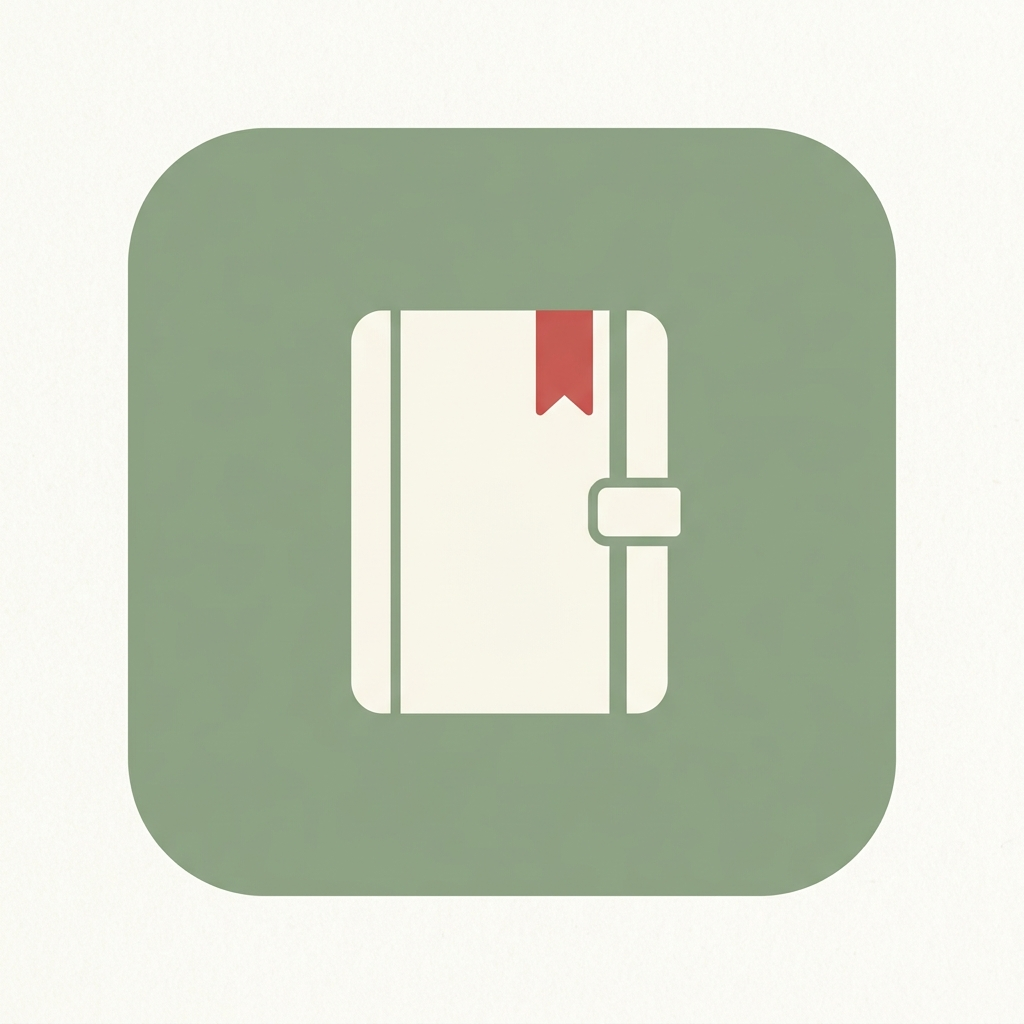
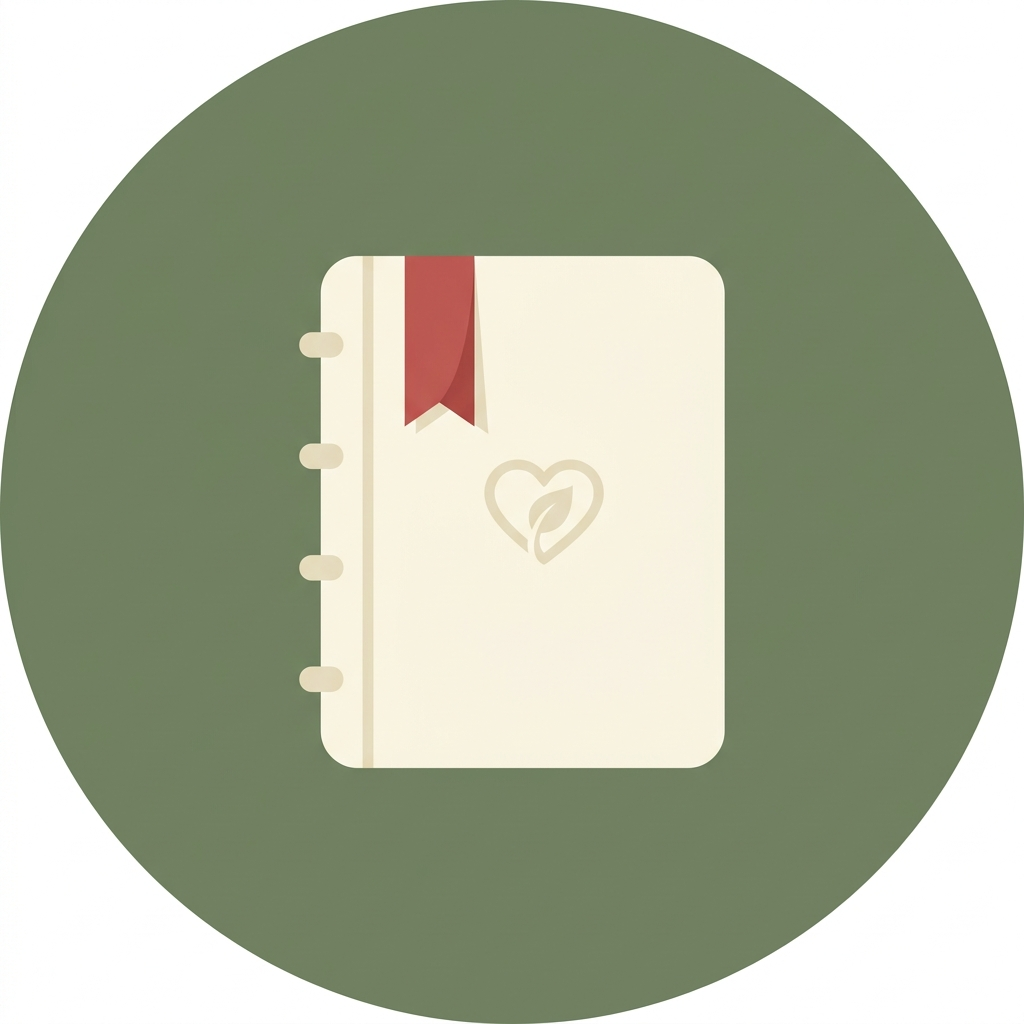
Add files via upload

diff --git a/src/components/EntryForm.tsx b/src/components/EntryForm.tsx
@@ -130,7 +130,7 @@ export default function EntryForm({
               ref={textareaRefs.situation}
               value={situation}
               onChange={(e) => setSituation(e.target.value)}
-              placeholder="Wo warst du? Wer war dabei? Was genau ist passiert?"
+              placeholder="Wo warst du? Wer war dabei? Was genau ist passiert? (z.B. Mein Chef hat mich kurzfristig zu einem Gespräch gerufen...)"
               rows={2}
               className="w-full p-3.5 rounded-xl border border-[#D1CBBB] bg-[#FCFAF5] text-[#3D3D3D] text-sm focus:border-[#728264] focus:ring-2 focus:ring-[#728264]/15 outline-none transition-all resize-none min-h-[70px]"
             />
@@ -146,7 +146,7 @@ export default function EntryForm({
               ref={textareaRefs.gedanken}
               value={gedanken}
               onChange={(e) => setGedanken(e.target.value)}
-              placeholder="Was ging dir durch den Kopf? Welche automatischen Bewertungen oder Zweifel hattest du?"
+              placeholder="Was ging dir durch den Kopf? Welche automatischen Bewertungen oder Zweifel hattest du? (z.B. Ich habe bestimmt etwas falsch gemacht...)"
               rows={2}
               className="w-full p-3.5 rounded-xl border border-[#D1CBBB] bg-[#FCFAF5] text-[#3D3D3D] text-sm focus:border-[#728264] focus:ring-2 focus:ring-[#728264]/15 outline-none transition-all resize-none min-h-[70px]"
             />
@@ -226,7 +226,7 @@ export default function EntryForm({
               ref={textareaRefs.verhalten}
               value={verhalten}
               onChange={(e) => setVerhalten(e.target.value)}
-              placeholder="Wie hast du reagiert? Was hast du gesagt, getan oder vermieden?"
+              placeholder="Wie hast du reagiert? Was hast du gesagt, getan oder vermieden? (z.B. Ich habe hektisch genickt und versucht mich zu erklären...)"
               rows={2}
               className="w-full p-3.5 rounded-xl border border-[#D1CBBB] bg-[#FCFAF5] text-[#3D3D3D] text-sm focus:border-[#728264] focus:ring-2 focus:ring-[#728264]/15 outline-none transition-all resize-none min-h-[70px]"
             />
@@ -235,14 +235,14 @@ export default function EntryForm({
           {/* Resultat (kurzfristig) */}
           <div>
             <label htmlFor="resultat_kurz" className="block text-sm font-bold text-[#3D3D3D] mb-1.5">
-              6. Resultat (kurzfristig)
+              6. Resultat (kurzfristig) / Konsequenzen
             </label>
             <textarea
               id="resultat_kurz"
               ref={textareaRefs.resultatKurz}
               value={resultatKurz}
               onChange={(e) => setResultatKurz(e.target.value)}
-              placeholder="Was war die sofortige Auswirkung auf dich oder die Situation?"
+              placeholder="Was war die sofortige Auswirkung auf dich oder die Situation? (z.B. Kurzfristig nahm die Anspannung ab, aber ich fühlte mich beschämt...)"
               rows={2}
               className="w-full p-3.5 rounded-xl border border-[#D1CBBB] bg-[#FCFAF5] text-[#3D3D3D] text-sm focus:border-[#728264] focus:ring-2 focus:ring-[#728264]/15 outline-none transition-all resize-none min-h-[70px]"
             />
@@ -251,14 +251,14 @@ export default function EntryForm({
           {/* Resultat (langfristig) */}
           <div>
             <label htmlFor="resultat_lang" className="block text-sm font-bold text-[#3D3D3D] mb-1.5">
-              7. Resultat (langfristig)
+              7. Resultat (langfristig) / Konsequenzen
             </label>
             <textarea
               id="resultat_lang"
               ref={textareaRefs.resultatLang}
               value={resultatLang}
               onChange={(e) => setResultatLang(e.target.value)}
-              placeholder="Welche dauerhaften Folgen hat dieses Verhaltensmuster für dich im Alltag?"
+              placeholder="Welche dauerhaften Folgen hat dieses Verhaltensmuster für dich im Alltag? (z.B. Ich gehe Konflikten aus dem Weg, meine Ängste wachsen...)"
               rows={2}
               className="w-full p-3.5 rounded-xl border border-[#D1CBBB] bg-[#FCFAF5] text-[#3D3D3D] text-sm focus:border-[#728264] focus:ring-2 focus:ring-[#728264]/15 outline-none transition-all resize-none min-h-[70px]"
             />

diff --git a/public/sw.js b/public/sw.js
@@ -1,4 +1,4 @@
-const CACHE_NAME = 'therapie-logbuch-v3';
+const CACHE_NAME = 'therapie-logbuch-v4';
 const ASSETS = [
   './',
   './index.html',